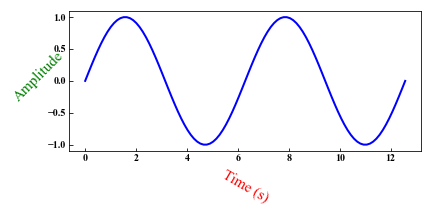
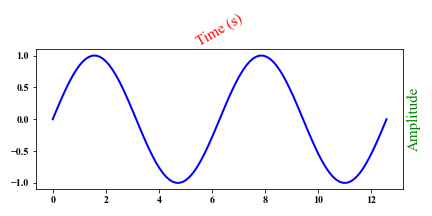
modified some blogs

diff --git a/post/plotting_issues_in_python/index.html b/post/plotting_issues_in_python/index.html
@@ -55,7 +55,7 @@ Example:
 1 2 3 4 5 6 7 8 9 10 11 12 13 14 15  import numpy as np import matplotlib.pyplot as plt theta = np.linspace(0, 2*np.pi, 121) r = np.">
 <meta itemprop="datePublished" content="2020-09-18T15:52:22+08:00" />
 <meta itemprop="dateModified" content="2020-09-18T15:52:22+08:00" />
-<meta itemprop="wordCount" content="984">
+<meta itemprop="wordCount" content="1173">
 
 
 
@@ -166,6 +166,7 @@ Example:
             <li><a href="#__23-label__"><strong>2.3 Label</strong></a></li>
             <li><a href="#__24-axes__"><strong>2.4 Axes</strong></a></li>
             <li><a href="#__25-grid-lines__"><strong>2.5 Grid lines</strong></a></li>
+            <li><a href="#__26-subplot-alignment__"><strong>2.6 Subplot alignment</strong></a></li>
           </ul>
         </li>
         <li><a href="#__3-background-error-bars__"><strong>3 Background, error bars</strong></a></li>
@@ -380,6 +381,7 @@ except of those in Cartesian projection. Setting the <code>projection</code> as
 <li><code>color</code>: Color of label;</li>
 <li><code>rotation</code>: Rotation angle of the label;</li>
 <li><code>fontsize</code>: Font size of the label.</li>
+<li>label position <code>ax.yaxis.set_label_position('right')</code> or <code>ax.xaxis.set_label_position('top')</code></li>
 </ul>
 <div class="highlight"><div class="chroma">
 <table class="lntable"><tr><td class="lntd">
@@ -419,7 +421,7 @@ except of those in Cartesian projection. Setting the <code>projection</code> as
 </div><p><img src="/PYTHON-IMG/plot_fig04.png" alt="plot_fig04"></p>
 <h3 id="__24-axes__"><strong>2.4 Axes</strong></h3>
 <ul>
-<li><code>plt.gca().invert_x(y)axis()</code>: Invert x (y) axis;</li>
+<li><code>plt.gca().invert_xaxis()</code> or <code>plt.gca().invert_yaxis()</code>: Invert x  or y axis;</li>
 <li>Setting frames: visible (True) or invisible (False):</li>
 </ul>
 <div class="highlight"><div class="chroma">
@@ -632,6 +634,71 @@ except of those in Cartesian projection. Setting the <code>projection</code> as
 </code></pre></td></tr></table>
 </div>
 </div><p><img src="/PYTHON-IMG/plot_fig07.png" alt="plot_fig07"></p>
+<h3 id="__26-subplot-alignment__"><strong>2.6 Subplot alignment</strong></h3>
+<p><code>ax = plt.subplot2grid((r, c), (rp, cp), rowspan=nr, colspan=nc)</code></p>
+<p><code>r</code>: rows of the whole figure;</p>
+<p><code>c</code>: columns of the whole figure;</p>
+<p><code>rp</code>: the start row index of the sub-figure, and it must be lower than <code>r</code>;</p>
+<p><code>cp</code>: the start column index of the current sub-figure, and it must be lower than <code>c</code>;</p>
+<p><code>nr</code>: the row number of the current sub-figure;</p>
+<p><code>nc</code>: the column number of the current sub-figure.</p>
+<div class="highlight"><div class="chroma">
+<table class="lntable"><tr><td class="lntd">
+<pre class="chroma"><code><span class="lnt"> 1
+</span><span class="lnt"> 2
+</span><span class="lnt"> 3
+</span><span class="lnt"> 4
+</span><span class="lnt"> 5
+</span><span class="lnt"> 6
+</span><span class="lnt"> 7
+</span><span class="lnt"> 8
+</span><span class="lnt"> 9
+</span><span class="lnt">10
+</span><span class="lnt">11
+</span><span class="lnt">12
+</span><span class="lnt">13
+</span><span class="lnt">14
+</span><span class="lnt">15
+</span><span class="lnt">16
+</span><span class="lnt">17
+</span><span class="lnt">18
+</span><span class="lnt">19
+</span><span class="lnt">20
+</span><span class="lnt">21
+</span><span class="lnt">22
+</span><span class="lnt">23
+</span><span class="lnt">24
+</span><span class="lnt">25
+</span></code></pre></td>
+<td class="lntd">
+<pre class="chroma"><code class="language-python" data-lang="python"><span class="n">x</span> <span class="o">=</span> <span class="n">np</span><span class="o">.</span><span class="n">linspace</span><span class="p">(</span><span class="mi">0</span><span class="p">,</span> <span class="mi">10</span><span class="p">,</span> <span class="mi">101</span><span class="p">)</span>
+<span class="n">y</span> <span class="o">=</span> <span class="n">np</span><span class="o">.</span><span class="n">sin</span><span class="p">(</span><span class="mi">5</span><span class="o">*</span><span class="n">x</span><span class="p">)</span> <span class="o">*</span> <span class="n">np</span><span class="o">.</span><span class="n">exp</span><span class="p">(</span><span class="o">-</span><span class="p">(</span><span class="n">x</span><span class="o">-</span><span class="mi">5</span><span class="p">)</span><span class="o">**</span><span class="mi">2</span><span class="p">)</span>
+
+<span class="n">r</span> <span class="o">=</span> <span class="mi">6</span><span class="p">;</span> <span class="n">c</span> <span class="o">=</span> <span class="mi">6</span>
+<span class="n">plt</span><span class="o">.</span><span class="n">figure</span><span class="p">(</span><span class="n">figsize</span><span class="o">=</span><span class="p">(</span><span class="mi">6</span><span class="p">,</span> <span class="mi">5</span><span class="p">))</span>
+<span class="n">ax1</span> <span class="o">=</span> <span class="n">plt</span><span class="o">.</span><span class="n">subplot2grid</span><span class="p">((</span><span class="n">r</span><span class="p">,</span> <span class="n">c</span><span class="p">),</span> <span class="p">(</span><span class="mi">0</span><span class="p">,</span> <span class="mi">0</span><span class="p">),</span> <span class="n">rowspan</span><span class="o">=</span><span class="mi">1</span><span class="p">,</span> <span class="n">colspan</span><span class="o">=</span><span class="n">c</span><span class="p">)</span>
+<span class="n">ax1</span><span class="o">.</span><span class="n">plot</span><span class="p">(</span><span class="n">x</span><span class="p">,</span> <span class="n">y</span><span class="p">,</span> <span class="n">color</span><span class="o">=</span><span class="s1">&#39;r&#39;</span><span class="p">)</span>
+
+<span class="n">ax2</span> <span class="o">=</span> <span class="n">plt</span><span class="o">.</span><span class="n">subplot2grid</span><span class="p">((</span><span class="n">r</span><span class="p">,</span> <span class="n">c</span><span class="p">),</span> <span class="p">(</span><span class="mi">1</span><span class="p">,</span> <span class="mi">0</span><span class="p">),</span> <span class="n">rowspan</span><span class="o">=</span><span class="mi">2</span><span class="p">,</span> <span class="n">colspan</span><span class="o">=</span><span class="mi">2</span><span class="p">)</span>
+<span class="n">ax2</span><span class="o">.</span><span class="n">plot</span><span class="p">(</span><span class="n">x</span><span class="p">,</span> <span class="n">y</span><span class="p">,</span> <span class="n">color</span><span class="o">=</span><span class="s1">&#39;g&#39;</span><span class="p">)</span>
+
+<span class="n">ax3</span> <span class="o">=</span> <span class="n">plt</span><span class="o">.</span><span class="n">subplot2grid</span><span class="p">((</span><span class="n">r</span><span class="p">,</span> <span class="n">c</span><span class="p">),</span> <span class="p">(</span><span class="mi">1</span><span class="p">,</span> <span class="mi">2</span><span class="p">),</span> <span class="n">rowspan</span><span class="o">=</span><span class="mi">1</span><span class="p">,</span> <span class="n">colspan</span><span class="o">=</span><span class="mi">2</span><span class="p">)</span>
+<span class="n">ax3</span><span class="o">.</span><span class="n">plot</span><span class="p">(</span><span class="n">x</span><span class="p">,</span> <span class="n">y</span><span class="p">,</span> <span class="n">color</span><span class="o">=</span><span class="s1">&#39;b&#39;</span><span class="p">)</span>
+
+<span class="n">ax3</span> <span class="o">=</span> <span class="n">plt</span><span class="o">.</span><span class="n">subplot2grid</span><span class="p">((</span><span class="n">r</span><span class="p">,</span> <span class="n">c</span><span class="p">),</span> <span class="p">(</span><span class="mi">2</span><span class="p">,</span> <span class="mi">2</span><span class="p">),</span> <span class="n">rowspan</span><span class="o">=</span><span class="mi">1</span><span class="p">,</span> <span class="n">colspan</span><span class="o">=</span><span class="mi">2</span><span class="p">)</span>
+<span class="n">ax3</span><span class="o">.</span><span class="n">plot</span><span class="p">(</span><span class="n">x</span><span class="p">,</span> <span class="n">y</span><span class="p">,</span> <span class="n">color</span><span class="o">=</span><span class="s1">&#39;m&#39;</span><span class="p">)</span>
+
+<span class="n">ax4</span> <span class="o">=</span> <span class="n">plt</span><span class="o">.</span><span class="n">subplot2grid</span><span class="p">((</span><span class="n">r</span><span class="p">,</span> <span class="n">c</span><span class="p">),</span> <span class="p">(</span><span class="mi">3</span><span class="p">,</span> <span class="mi">0</span><span class="p">),</span> <span class="n">rowspan</span><span class="o">=</span><span class="mi">3</span><span class="p">,</span> <span class="n">colspan</span><span class="o">=</span><span class="mi">4</span><span class="p">)</span>
+<span class="n">ax4</span><span class="o">.</span><span class="n">plot</span><span class="p">(</span><span class="n">x</span><span class="p">,</span> <span class="n">y</span><span class="p">,</span> <span class="n">color</span><span class="o">=</span><span class="s1">&#39;c&#39;</span><span class="p">)</span>
+
+<span class="n">ax5</span> <span class="o">=</span> <span class="n">plt</span><span class="o">.</span><span class="n">subplot2grid</span><span class="p">((</span><span class="n">r</span><span class="p">,</span> <span class="n">c</span><span class="p">),</span> <span class="p">(</span><span class="mi">1</span><span class="p">,</span> <span class="mi">4</span><span class="p">),</span> <span class="n">rowspan</span><span class="o">=</span><span class="n">r</span><span class="o">-</span><span class="mi">1</span><span class="p">,</span> <span class="n">colspan</span><span class="o">=</span><span class="mi">2</span><span class="p">)</span>
+<span class="n">ax5</span><span class="o">.</span><span class="n">plot</span><span class="p">(</span><span class="n">y</span><span class="p">,</span> <span class="n">x</span><span class="p">,</span> <span class="n">color</span><span class="o">=</span><span class="s1">&#39;k&#39;</span><span class="p">)</span>
+
+<span class="n">plt</span><span class="o">.</span><span class="n">tight_layout</span><span class="p">()</span>
+<span class="n">plt</span><span class="o">.</span><span class="n">show</span><span class="p">()</span>
+</code></pre></td></tr></table>
+</div>
+</div><p><img src="/PYTHON-IMG/plot_fig08.png" alt="Fig08"></p>
 <h2 id="__3-background-error-bars__"><strong>3 Background, error bars</strong></h2>
 <p><code>background</code></p>
 <div class="highlight"><div class="chroma">

diff --git a/post/ncf_cross_spectral_beamforming/index.html b/post/ncf_cross_spectral_beamforming/index.html
@@ -49,7 +49,7 @@
 <meta itemprop="description" content="">
 <meta itemprop="datePublished" content="2021-03-20T15:33:02+08:00" />
 <meta itemprop="dateModified" content="2021-03-20T15:33:02+08:00" />
-<meta itemprop="wordCount" content="1740">
+<meta itemprop="wordCount" content="1804">
 
 
 
@@ -677,7 +677,7 @@
 </code></pre></td></tr></table>
 </div>
 </div><p><img src="/Array_Processing/Noise_Source_YB_Single_Frequency.png" alt="CSB_YB"></p>
-<p>We think they are body waves originating from distant storms and more work is need to conducted for recognizing the body wave phases. Fro example, we can use back-projection to find the regions of the distant storms and compare them with the significant wave height data (e. g., Gerstoft et al., 2006; Euler et al., 2017).</p>
+<p>We think they are body waves originating from distant storms and more work is need to conducted for recognizing the body wave phases. If we assume that what the seismic phase is, we can use back-projection to find the regions of the distant storms and compare them with the significant wave height data (e. g., Gerstoft et al., 2006; Euler et al., 2017). For more details, see these research articles. Note that, <code>how do we find the position with given back-azimuth and horizontal slowness (ray parameter) of some body phase</code> can be figured out using some body wave ray toolkits, such as <a href="https://docs.obspy.org/tutorial/code_snippets/travel_time.html">obspy</a> (see <a href="http://geophydog.cool/post/obspy_ray_parameter/">Calculating ray parameters of body waves with obspy</a> to find the specific steps ) or <a href="http://www.seis.sc.edu/taup/">TauP</a>.</p>
 <h3 id="__bibliography__"><strong>Bibliography</strong></h3>
 <p>Euler, G. G., Wiens, D. A., &amp; Nyblade, A. A. (2014). Evidence for bathymetric control on the distribution of body wave microseism sources from temporary seismic arrays in africa. Geophysical Journal International , 197 (3), 1869-1883.</p>
 <p>Gerstoft, P., M. C. Fehler, and K. G. Sabra (2006), When Katrina hit California, Geophys. Res. Lett., 33, L17308.</p>
